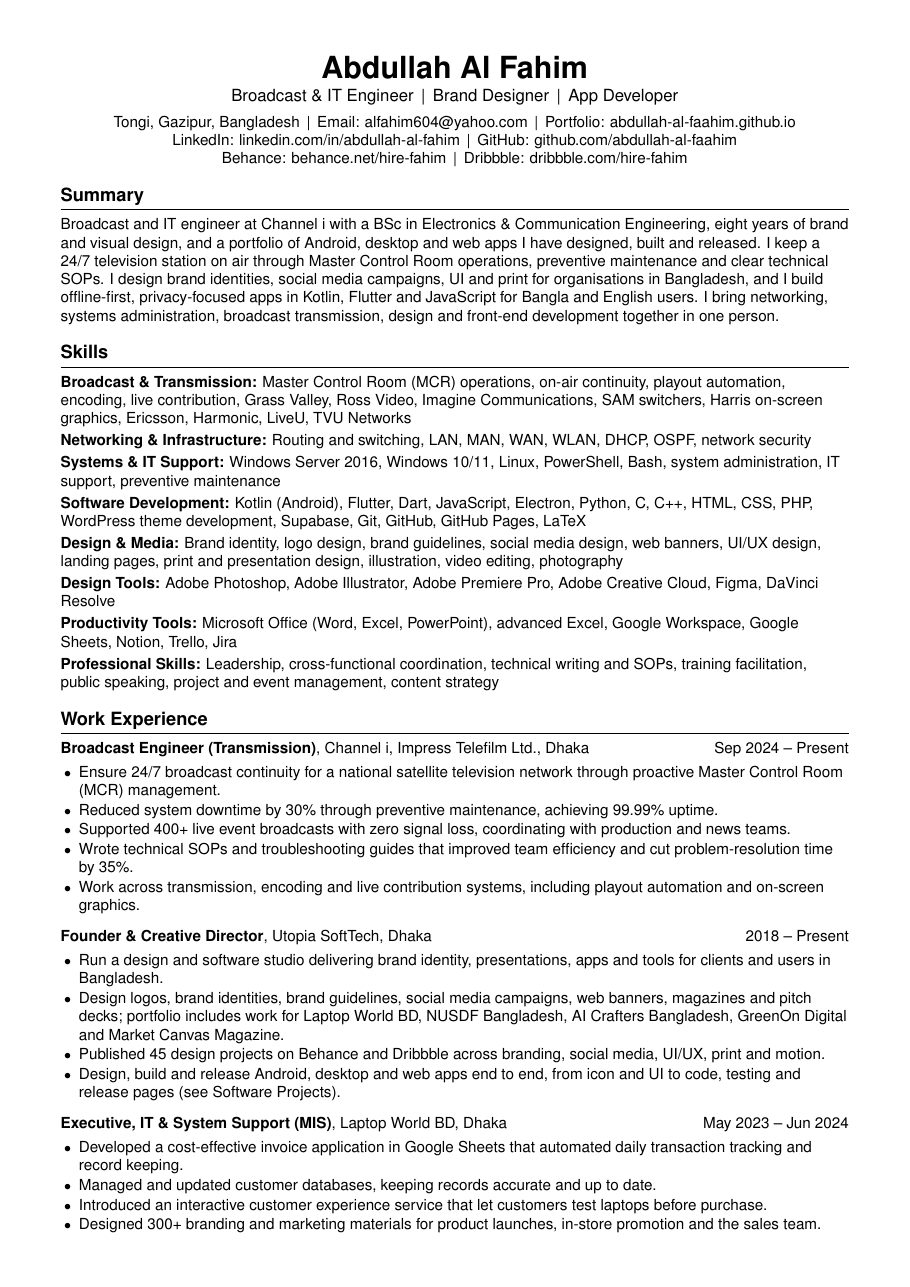
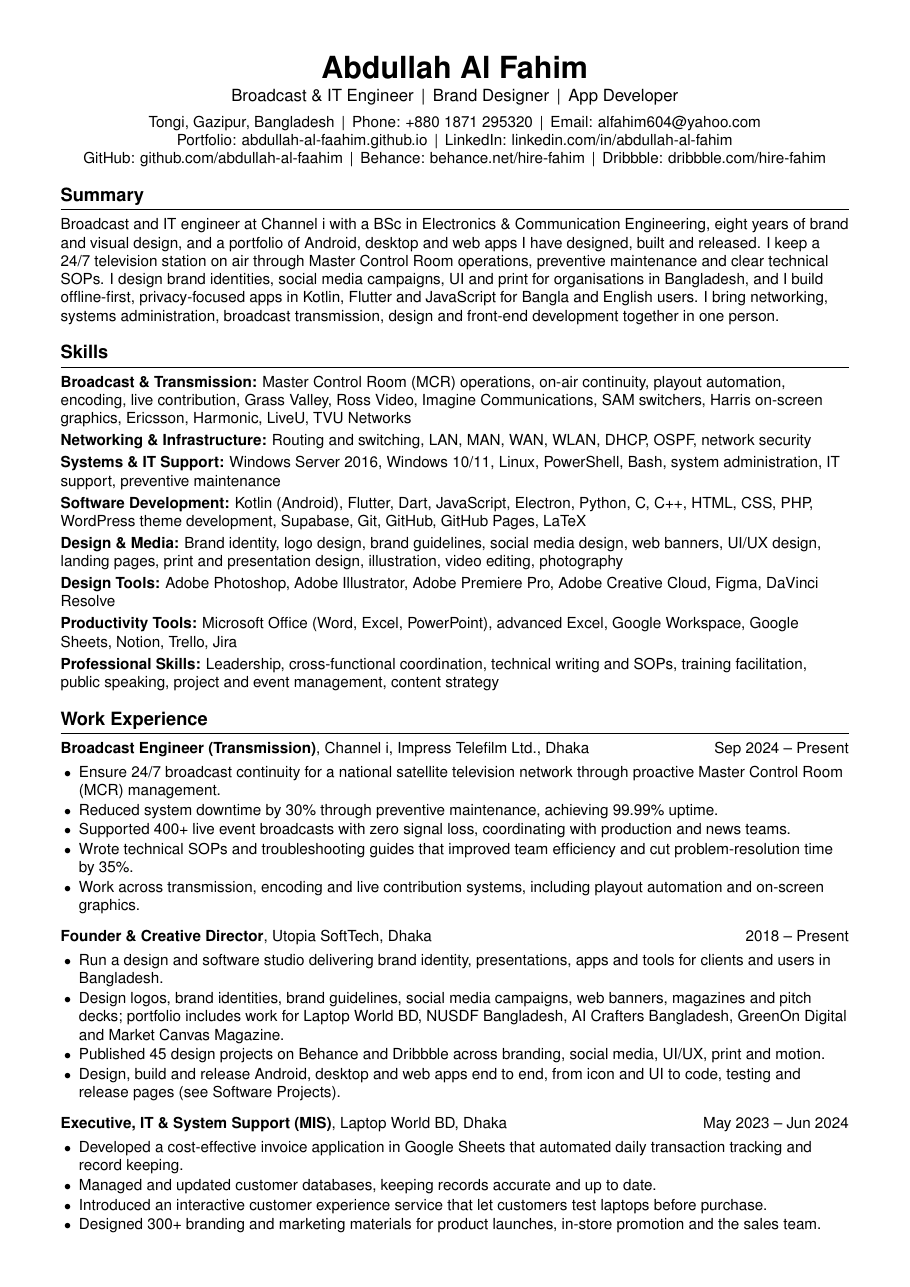
Update CV to V2026.11.003 (adds phone number)

Changed region(s): [[0.0923, 0.0932, 0.8923, 0.1243]]

diff --git a/README.md b/README.md
@@ -8,7 +8,7 @@ Tongi, Gazipur, Bangladesh
 <a href="https://github.com/abdullah-al-faahim/cv/releases/latest/download/Abdullah.Al.Fahim_CV.pdf"><img src="https://img.shields.io/badge/Download%20CV-PDF-6B4AFF?style=for-the-badge" alt="Download CV (PDF)"></a>
 <a href="https://abdullah-al-faahim.github.io/cv/Abdullah%20Al%20Fahim_CV.pdf"><img src="https://img.shields.io/badge/Preview-in%20browser-1E066F?style=for-the-badge" alt="Preview CV in the browser"></a>
 
-<sub>Latest version: <b>V2026.11.002</b> · 4 pages · ATS-friendly</sub>
+<sub>Latest version: <b>V2026.11.003</b> · 4 pages · ATS-friendly</sub>
 
 <br><br>
 
